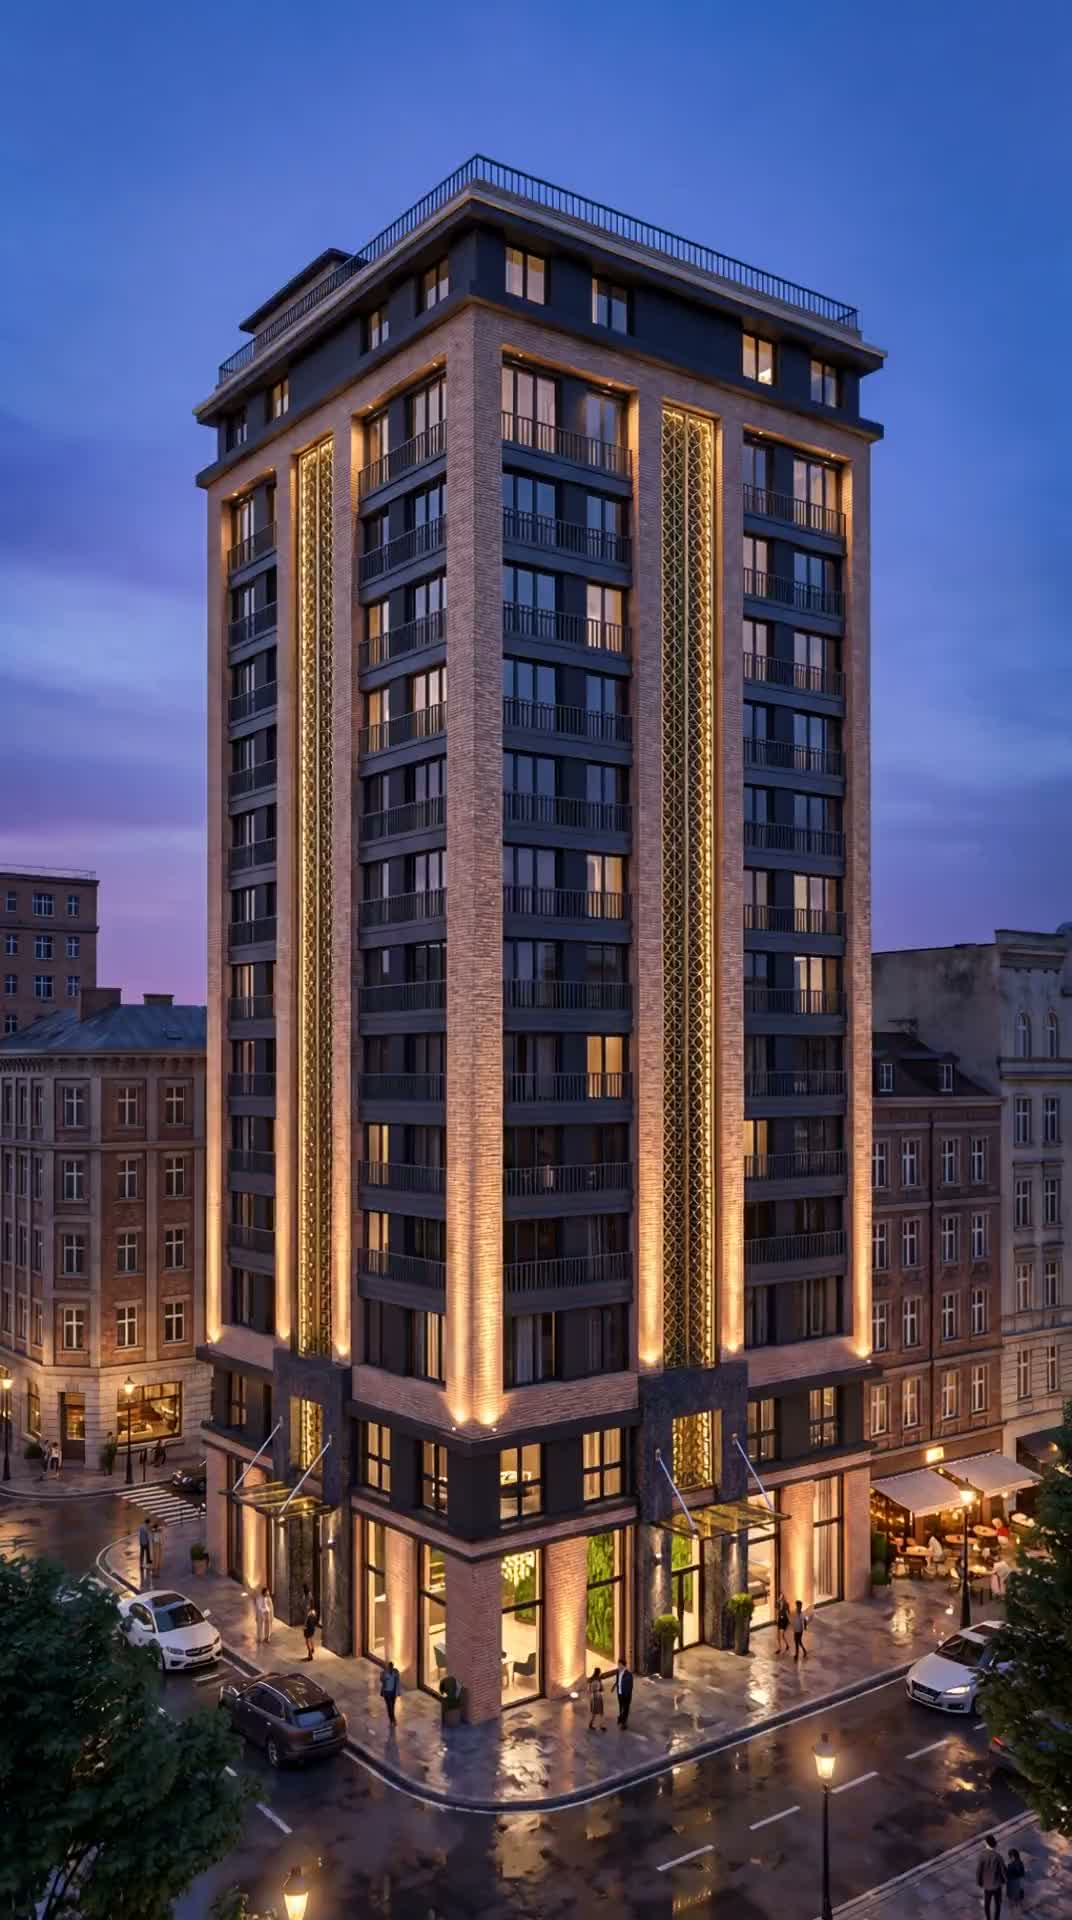
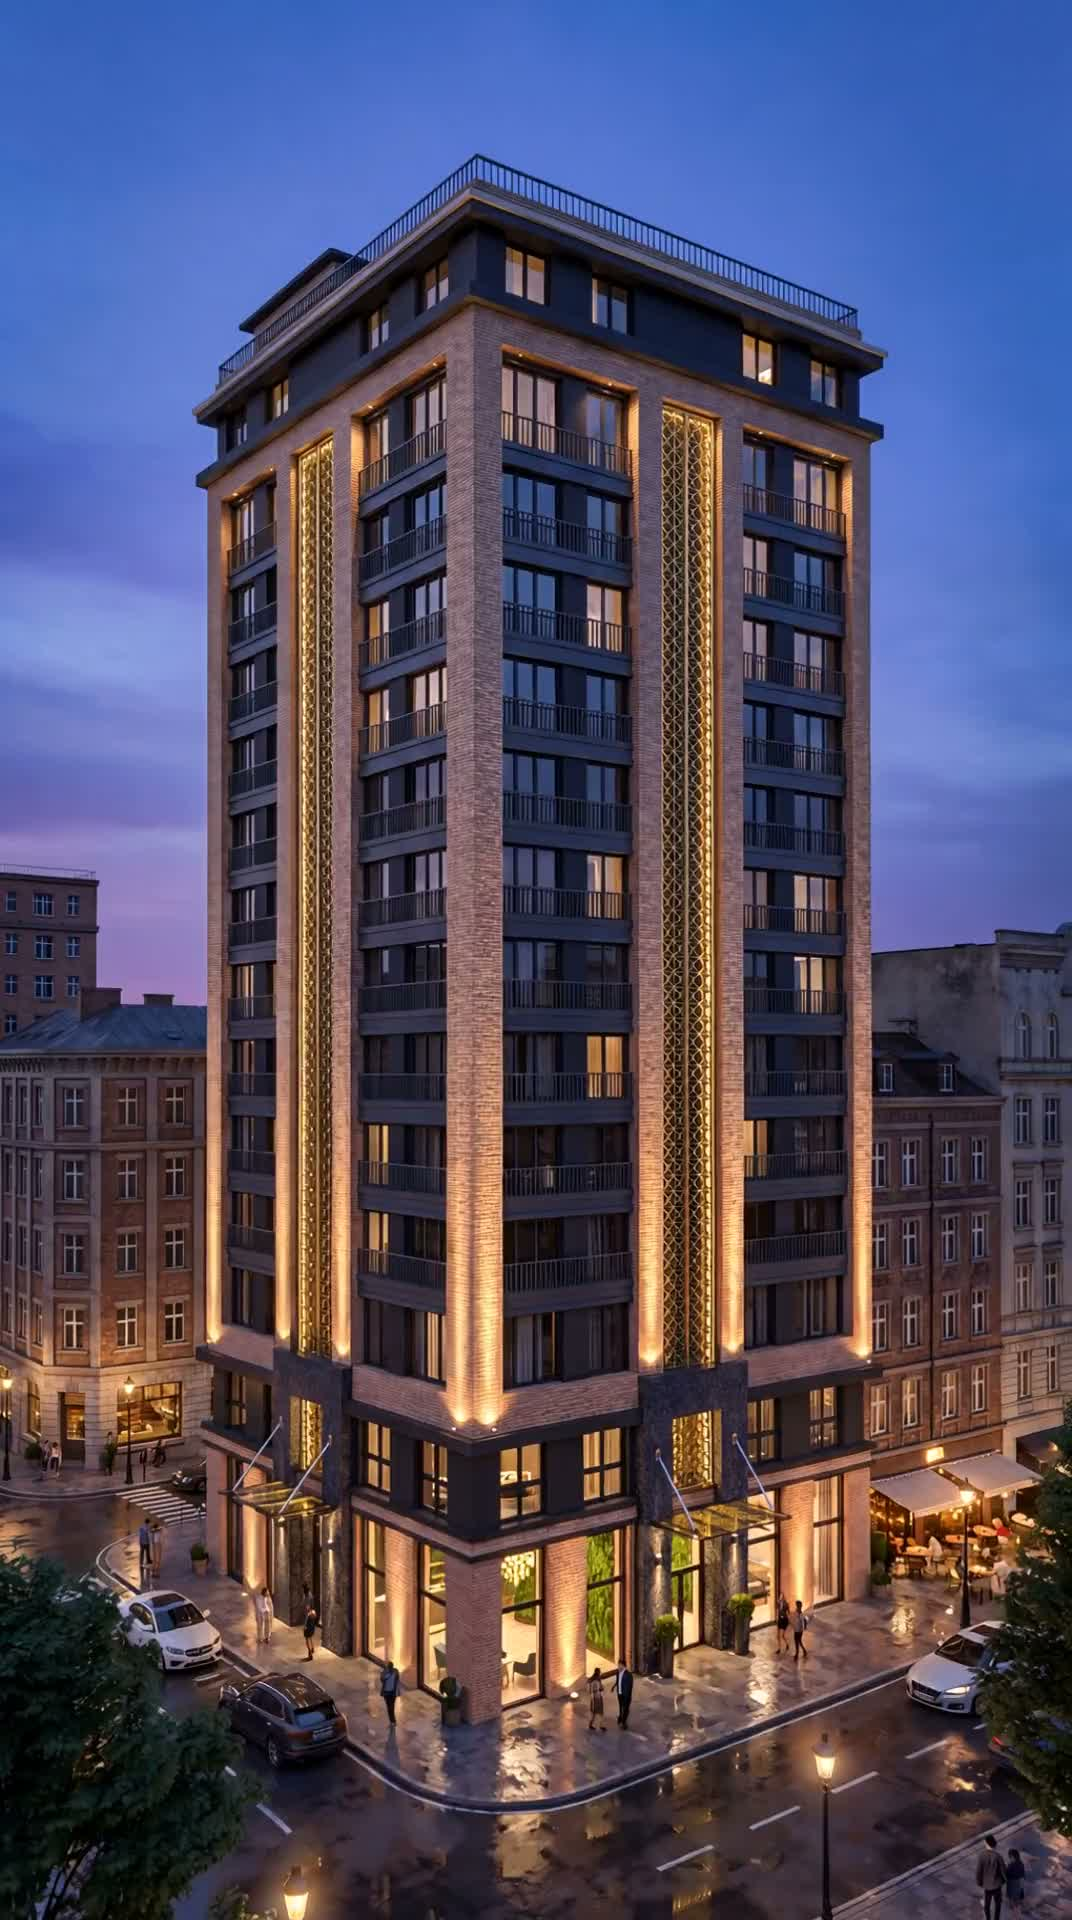
refactor: adjust mobile video scrubbing and canvas handling in BrandFilm component
Reduced mobile section height for better layout, improved video scrubbing logic, and refined event handling for touch interactions. Updated canvas rendering conditions to enhance performance and responsiveness across devices. Additionally, modified the video element's class for improved visibility on mobile.

diff --git a/components/BrandFilm.tsx b/components/BrandFilm.tsx
@@ -9,7 +9,7 @@ type Props = {
   posterMobile?: string;
 };
 
-const SECTION_VH_MOBILE = 350;
+const SECTION_VH_MOBILE = 300;
 const SECTION_VH_DESKTOP = 520;
 
 const clamp01 = (v: number) => (v < 0 ? 0 : v > 1 ? 1 : v);
@@ -21,7 +21,6 @@ function pinProgress(section: HTMLElement): number {
   return clamp01(-section.getBoundingClientRect().top / scrollable);
 }
 
-/** Returns false when the frame isn't ready — caller keeps the previous canvas pixels. */
 function drawVideoCover(
   ctx: CanvasRenderingContext2D,
   video: HTMLVideoElement,
@@ -86,16 +85,82 @@ export default function BrandFilm({ scrubSrc, poster, scrubSrcMobile, posterMobi
 
     const section = sectionRef.current;
     const video = videoRef.current;
-    const canvas = canvasRef.current;
-    if (!section || !video || !canvas) return;
-
-    const ctx = canvas.getContext("2d");
-    if (!ctx) return;
+    if (!section || !video) return;
 
     video.pause();
 
     let unlocked = false;
     let rafId = 0;
+    if (mobile) {
+      let canScrub = false;
+      let seeking = false;
+      let pending = -1;
+      let lastRequested = -1;
+
+      const queueSeek = (progress: number) => {
+        if (!canScrub) return;
+        const duration = video.duration;
+        if (!Number.isFinite(duration) || duration <= 0 || video.readyState < 1) return;
+
+        const t = progress * Math.max(0, duration - 0.05);
+        if (Math.abs(t - lastRequested) < 0.015) return;
+        lastRequested = t;
+        pending = t;
+
+        if (seeking) return;
+        seeking = true;
+        try {
+          video.currentTime = t;
+        } catch {
+          seeking = false;
+        }
+      };
+
+      const onSeeked = () => {
+        seeking = false;
+        if (pending >= 0 && Math.abs(video.currentTime - pending) > 0.025) {
+          seeking = true;
+          try {
+            video.currentTime = pending;
+          } catch {
+            seeking = false;
+          }
+        }
+      };
+
+      const onCanScrub = () => {
+        ensureUnlocked();
+        canScrub = true;
+        setFrameReady(true);
+        queueSeek(pinProgress(section));
+      };
+
+      const tick = () => {
+        queueSeek(pinProgress(section));
+        rafId = requestAnimationFrame(tick);
+      };
+
+      video.addEventListener("loadedmetadata", onCanScrub);
+      video.addEventListener("loadeddata", onCanScrub);
+      video.addEventListener("canplay", onCanScrub);
+      video.addEventListener("seeked", onSeeked);
+      rafId = requestAnimationFrame(tick);
+
+      return () => {
+        cancelAnimationFrame(rafId);
+        section.removeEventListener("touchstart", onTouch);
+        video.removeEventListener("loadedmetadata", onCanScrub);
+        video.removeEventListener("loadeddata", onCanScrub);
+        video.removeEventListener("canplay", onCanScrub);
+        video.removeEventListener("seeked", onSeeked);
+      };
+    }
+
+    const canvas = canvasRef.current;
+    if (!canvas) return;
+    const ctx = canvas.getContext("2d");
+    if (!ctx) return;
+
     let canvasW = 0;
     let canvasH = 0;
     let pendingTime = -1;
@@ -119,17 +184,13 @@ export default function BrandFilm({ scrubSrc, poster, scrubSrcMobile, posterMobi
 
     const queueSeek = (progress: number) => {
       if (!scrubReady) return;
-
       const duration = video.duration;
       if (!Number.isFinite(duration) || duration <= 0) return;
 
       const t = progress * Math.max(0, duration - 0.05);
       pendingTime = t;
-
       if (seeking) return;
-
-      const skip = mobile ? 0.008 : 0.004;
-      if (Math.abs(video.currentTime - t) < skip) return;
+      if (Math.abs(video.currentTime - t) < 0.004) return;
 
       seeking = true;
       try {
@@ -142,7 +203,6 @@ export default function BrandFilm({ scrubSrc, poster, scrubSrcMobile, posterMobi
     const onSeeked = () => {
       seeking = false;
       paint();
-
       if (pendingTime >= 0 && Math.abs(video.currentTime - pendingTime) > 0.004) {
         seeking = true;
         try {
@@ -218,7 +278,7 @@ export default function BrandFilm({ scrubSrc, poster, scrubSrcMobile, posterMobi
                 draggable={false}
               />
             )}
-            <canvas ref={canvasRef} className="absolute inset-0 z-[1] h-full w-full" aria-hidden />
+            {!mobile && <canvas ref={canvasRef} className="absolute inset-0 z-[1] h-full w-full" aria-hidden />}
             {/*
               Full-size video (opacity 0) — iOS Safari refuses to decode
               zero-size or display:none video, which caused the black screen.
@@ -226,7 +286,11 @@ export default function BrandFilm({ scrubSrc, poster, scrubSrcMobile, posterMobi
             <video
               ref={videoRef}
               key={src}
-              className="pointer-events-none absolute inset-0 z-0 h-full w-full opacity-0"
+              className={
+                mobile
+                  ? "absolute inset-0 z-[1] h-full w-full object-cover"
+                  : "pointer-events-none absolute inset-0 z-0 h-full w-full opacity-0"
+              }
               src={src}
               poster={videoPoster}
               muted